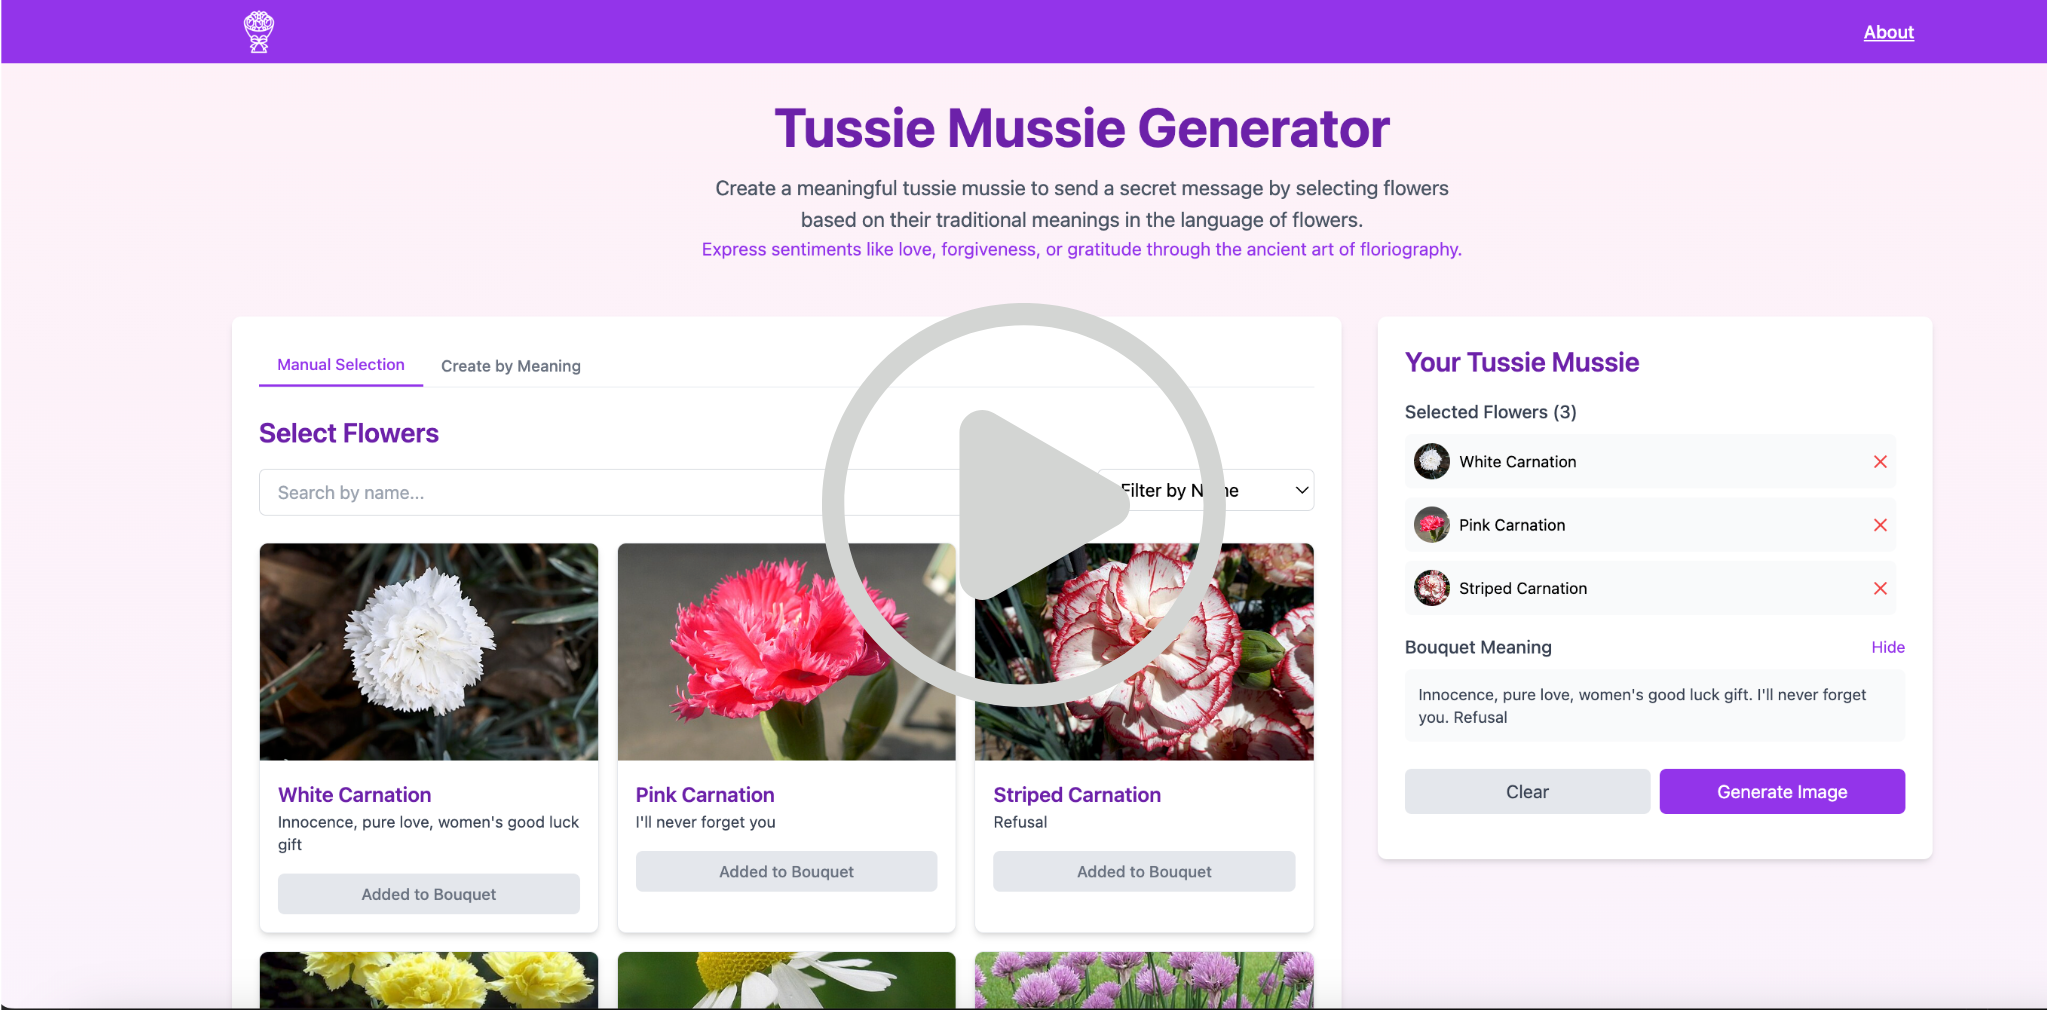
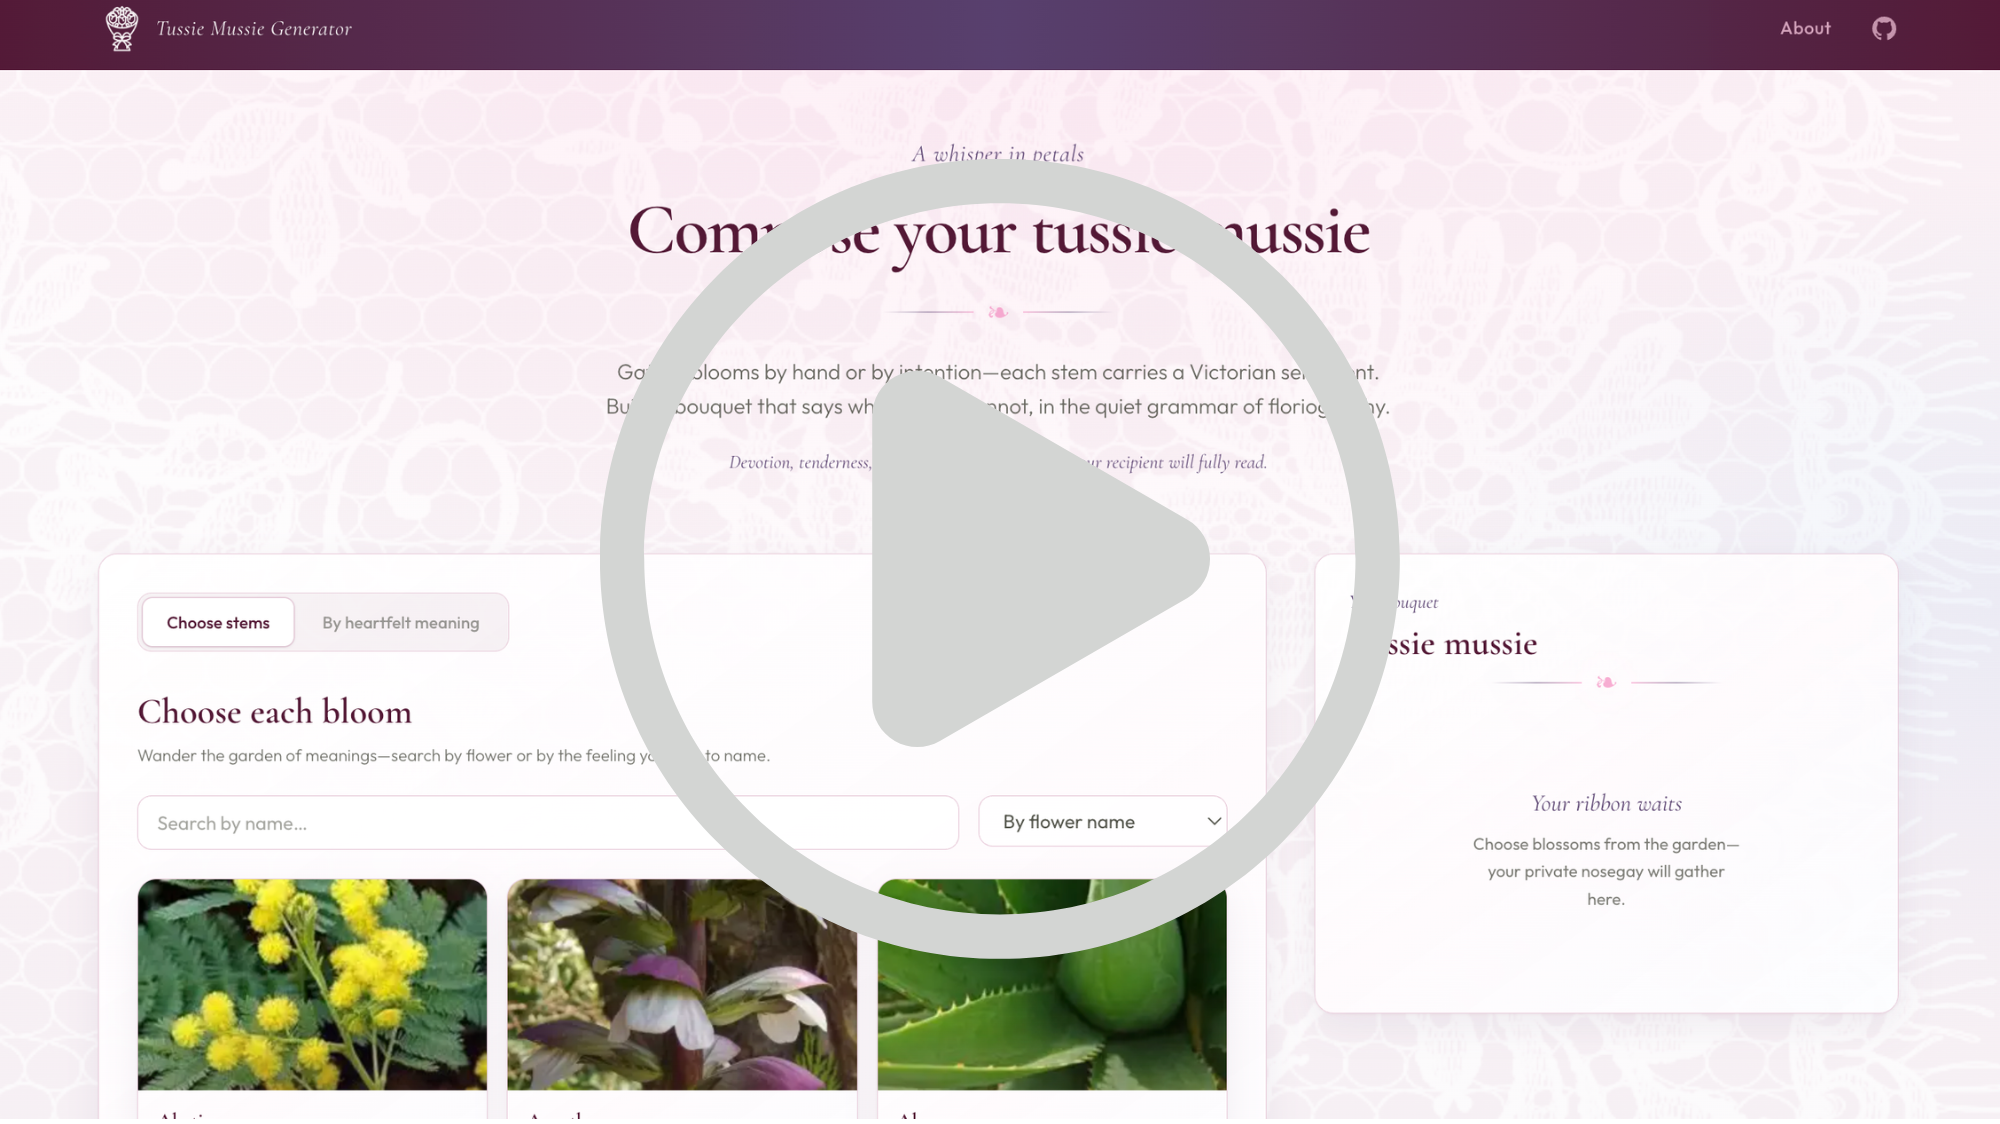
demo

diff --git a/README.md b/README.md
@@ -22,7 +22,7 @@ A tussie-mussie is a small bouquet traditionally used to convey coded sentiments
 
 ## Demo
 
-[![Demo video](demo.png)](https://youtu.be/L8H4SnNUeDs) "Demo video")
+[![Demo video](demo.png)](tussie-mussies.gif) "Demo video")
 
 ## 🛠 Tech Stack
 